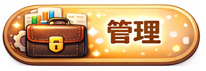
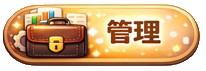
chore(skin): remove white margins from Tmp01 PNGs via edge flood to alpha
Made-with: Cursor

diff --git a/scripts/transparent_skin_png_edges.py b/scripts/transparent_skin_png_edges.py
@@ -1,0 +1,93 @@
+#!/usr/bin/env python3
+"""
+public/skins/*/ のナビ PNG について、画像外周の白〜薄灰（低彩度・高明度）を透明化する。
+エッジから BFS し、カプセル内部の色とは連結しない前提で外枠のみ除去する。
+"""
+from __future__ import annotations
+
+import sys
+from collections import deque
+from pathlib import Path
+
+from PIL import Image
+
+
+def is_background_like(r: int, g: int, b: int) -> bool:
+    """白ボックス・薄いグレーの枠線を背景扱い（カラフルな本体は除外しやすいように彩度で切る）。"""
+    mx, mn = max(r, g, b), min(r, g, b)
+    sat = mx - mn
+    lum = (r + g + b) / 3.0
+    # ほぼ白
+    if r >= 245 and g >= 245 and b >= 245:
+        return True
+    # 薄い無彩色〜ごく弱い色味（枠線・抗アリエイジングの灰）
+    if sat <= 42 and lum >= 158:
+        return True
+    return False
+
+
+def flood_transparent_edge(img: Image.Image) -> Image.Image:
+    rgba = img.convert("RGBA")
+    w, h = rgba.size
+    px = rgba.load()
+
+    visited = [[False] * w for _ in range(h)]
+    q: deque[tuple[int, int]] = deque()
+
+    def enqueue(x: int, y: int) -> None:
+        if x < 0 or x >= w or y < 0 or y >= h or visited[y][x]:
+            return
+        r, g, b, a = px[x, y]
+        if a == 0:
+            return
+        if not is_background_like(r, g, b):
+            return
+        visited[y][x] = True
+        q.append((x, y))
+
+    for x in range(w):
+        enqueue(x, 0)
+        enqueue(x, h - 1)
+    for y in range(h):
+        enqueue(0, y)
+        enqueue(w - 1, y)
+
+    while q:
+        x, y = q.popleft()
+        r, g, b, _ = px[x, y]
+        px[x, y] = (r, g, b, 0)
+        for nx, ny in ((x - 1, y), (x + 1, y), (x, y - 1), (x, y + 1)):
+            if nx < 0 or nx >= w or ny < 0 or ny >= h or visited[ny][nx]:
+                continue
+            r2, g2, b2, a2 = px[nx, ny]
+            if a2 == 0:
+                continue
+            if is_background_like(r2, g2, b2):
+                visited[ny][nx] = True
+                q.append((nx, ny))
+
+    return rgba
+
+
+def main() -> int:
+    root = Path(__file__).resolve().parents[1] / "public" / "skins" / "Tmp01"
+    if not root.is_dir():
+        print(f"Missing: {root}", file=sys.stderr)
+        return 1
+
+    pngs = sorted(root.glob("*.png"))
+    if not pngs:
+        print("No PNG files", file=sys.stderr)
+        return 1
+
+    for path in pngs:
+        im = Image.open(path)
+        out = flood_transparent_edge(im)
+        out.save(path, format="PNG", optimize=True)
+        print(f"OK {path.name}")
+
+    return 0
+
+
+if __name__ == "__main__":
+    raise SystemExit(main())
